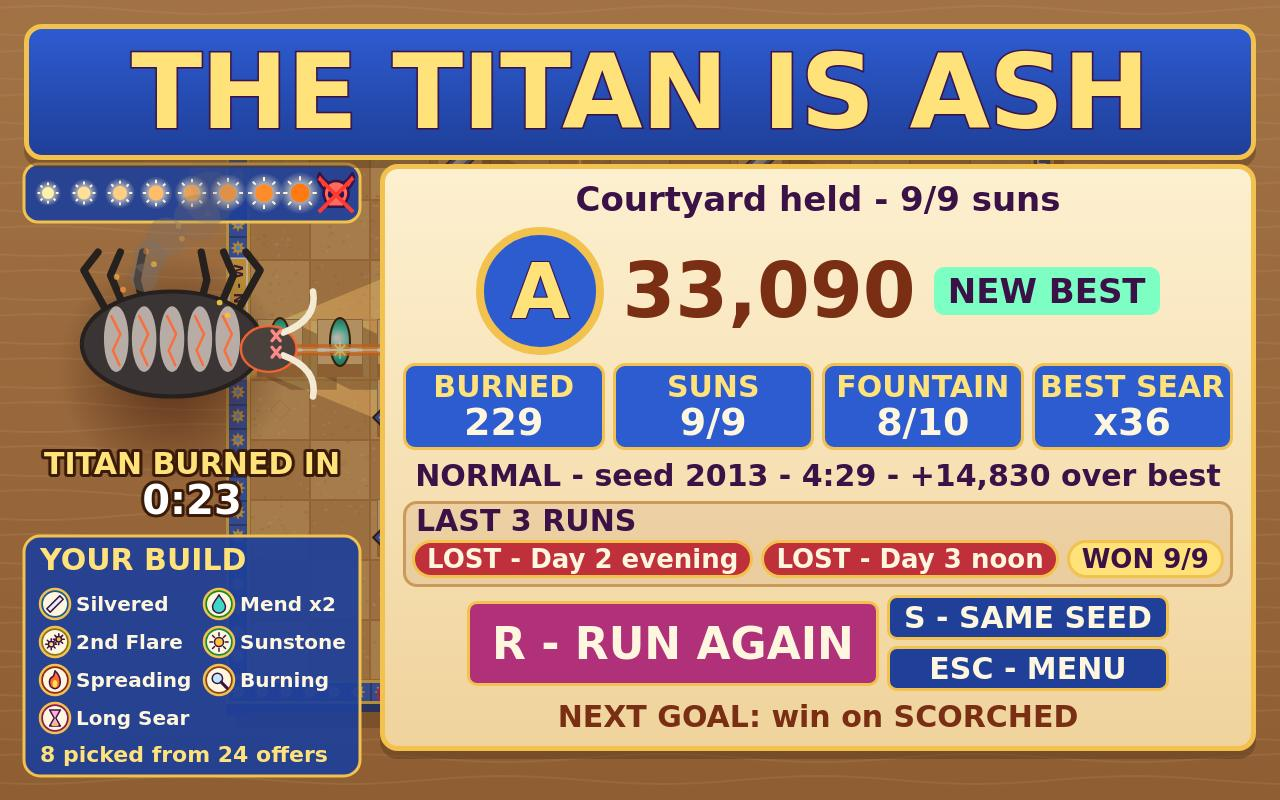
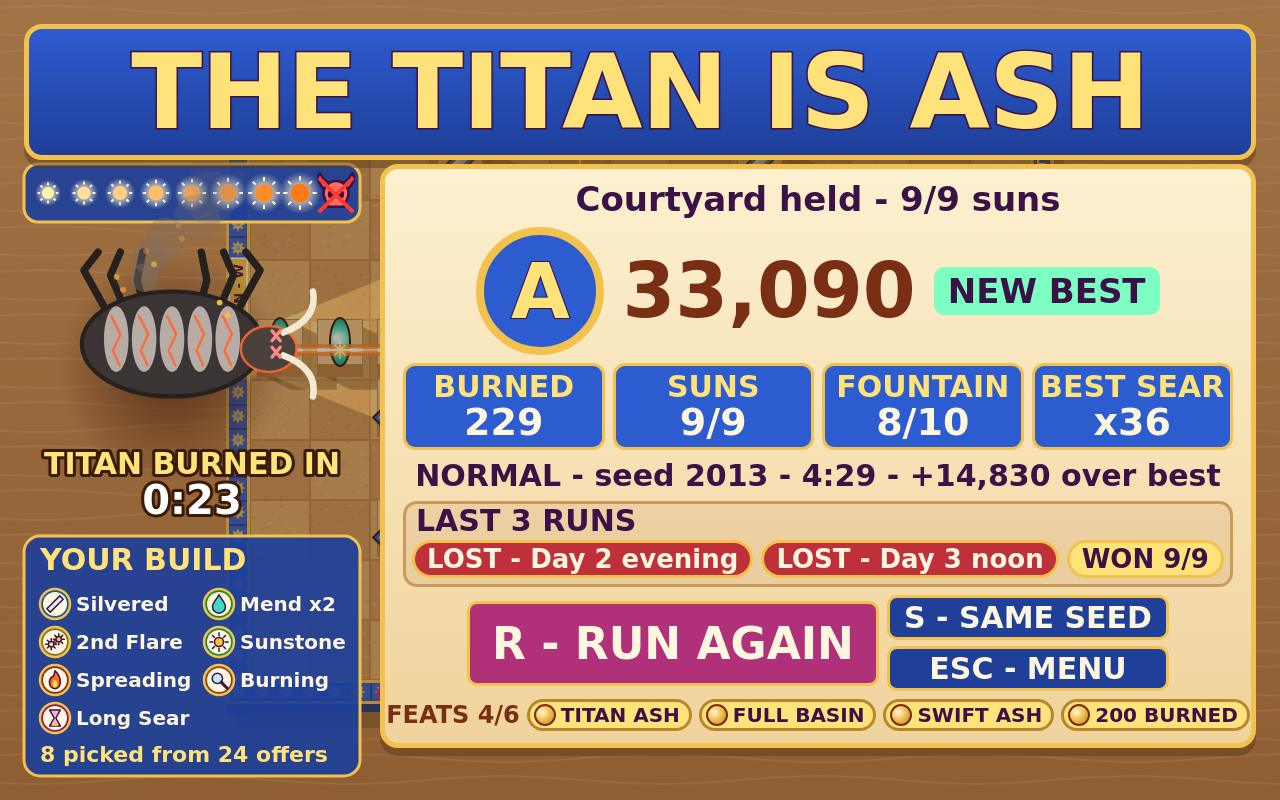
FEATS: 6 badges tested on the finished run and saved; results show the run's earned medals (4/6), the title counts every feat earned; truth-checked

Changed region(s): [[0.2812, 0.875, 1.0, 0.9688]]

diff --git a/game/src/ui/menus.js b/game/src/ui/menus.js
@@ -1,11 +1,13 @@
 // DOM overlays above the canvas: title (with difficulty picker and best scores), how to play,
 // pause, the draft's stained-glass roundels, and the results screen. Buttons only queue
 // { kind: 'ui', action, arg } intents; main.js decides what they do.
-import { DIFFICULTY_ORDER, DIFFICULTIES, ENEMIES, NAMES, PIECES, PIECE_ORDER, RESULT_LOSE_TITLE, RESULT_WIN_TITLE, SCOPE_LINE, SYNERGY, WAVE_COUNT } from '../config.js';
+import { DIFFICULTY_ORDER, DIFFICULTIES, ENEMIES, FEATS, NAMES, PIECES, PIECE_ORDER, RESULT_LOSE_TITLE, RESULT_WIN_TITLE, SCOPE_LINE, SYNERGY, WAVE_COUNT } from '../config.js';
 import { boonById, rerollCost } from '../draft.js';
 import { sunApertureFor } from '../sun.js';
 import { waveRoster } from '../waves.js';
 import { rankFor } from '../combat.js';
+import { runSummary } from '../sim.js';
+import { loadFeats } from '../save.js';
 import { draftContext, draftHeal, draftHint, historyChip, titleRules } from '../announce.js';
 import { drawCharmGlyph } from '../render/charms.js';
 import { drawHowtoPicture } from '../render/howto.js';
@@ -59,6 +61,7 @@ export function showTitle(menus, bestFor, selected) {
       <b>${DIFFICULTIES[id].name}</b><small>${best.played ? `best ${best.score.toLocaleString('en-US')}` : 'not played yet'}</small></button>`;
   }).join('');
   el('rule-scope').textContent = SCOPE_LINE;
+  el('feats-count').textContent = `FEATS ${loadFeats().length}/${FEATS.length}`;
   // The rules table: icon, gold tag, one line per rule (announce.titleRules, numbers from config).
   el('title-rules').innerHTML = titleRules()
     .map((r) => `<div class="rule rule-${r.icon}"><canvas width="36" height="36" data-icon="${r.icon}"></canvas><b>${escapeHtml(r.tag)}</b><span>${escapeHtml(r.line)}</span></div>`)
@@ -129,12 +132,6 @@ function fitHeading(node, maxPx, room) {
   node.style.setProperty('--fit', String(Math.min(1, Math.max(MIN_SQUEEZE, k))));
 }
 
-/** What to aim for next, from this run's outcome and difficulty. */
-function nextGoal(run) {
-  if (run.phase !== 'won') return `NEXT GOAL: hold ${run.stats.wavesCleared + 1} ${NAMES.suns.toLowerCase()}`;
-  const harder = DIFFICULTY_ORDER[DIFFICULTY_ORDER.indexOf(run.difficultyId) + 1];
-  return harder ? `NEXT GOAL: win on ${DIFFICULTIES[harder].name}` : `NEXT GOAL: beat ${run.score.toLocaleString('en-US')}`;
-}
 
 /**
  * Results: THE TITAN IS ASH (or THE SWARM BROKE THROUGH) across the top, then score with NEW BEST,
@@ -169,7 +166,9 @@ export function showResults(menus, run, record, history) {
     ? `<div class="strip-head"><b>LAST ${history.length} RUN${history.length > 1 ? 'S' : ''}</b></div>` +
       `<div class="chips">${history.map((h) => `<span class="chip ${h.outcome === 'won' ? 'won' : 'fell'}">${historyChip(h)}</span>`).join('')}</div>`
     : '';
-  el('results-next').textContent = nextGoal(run);
+  // FEATS this run earned, as gold medals (config FEATS, tested on the finished run).
+  const earned = runSummary(run).feats;
+  el('results-feats').innerHTML = `<b>FEATS ${earned.length}/${FEATS.length}</b>` + earned.map((id) => `<span class="feat"><i></i>${escapeHtml(FEATS.find((f) => f.id === id).name)}</span>`).join('');
 }
 
 /** R / S on the results screen (and the RUN AGAIN / SAME SEED buttons): queue a fresh run. */

diff --git a/game/style.css b/game/style.css
@@ -27,6 +27,8 @@ button.big:hover { background: #cf3f93; }
 .rule-lose span { color: #ffb0a8; }
 .title-card { position: absolute; left: 24px; top: 522px; bottom: 66px; width: 680px; box-sizing: border-box; display: flex; flex-direction: column; align-items: center; justify-content: space-between; padding: 8px 14px; background: rgba(31, 63, 153, 0.8); border: 4px solid #f2c14e; border-radius: 18px; }
 #play-button { font-size: 52px; padding: 0 80px; }
+.play-row { display: flex; align-items: center; gap: 18px; }
+.featcount { font: 900 26px system-ui, sans-serif; color: #3b1247; background: #ffe27a; border: 3px solid #b8862c; border-radius: 16px; padding: 4px 14px; white-space: nowrap; }
 .start-hint { margin: 0; font: 900 34px system-ui, sans-serif; color: #ffe27a; white-space: nowrap; letter-spacing: 0; }
 .picker { display: flex; gap: 8px; width: 100%; }
 .diff { flex: 1; display: flex; flex-direction: column; align-items: center; padding: 0 6px 2px; background: #2d5bd0; border-radius: 16px; letter-spacing: 0; }
@@ -99,8 +101,11 @@ kbd { display: inline-block; min-width: 30px; padding: 0 5px; font: 900 24px sys
 .stats div { flex: 1; min-width: 0; display: flex; flex-direction: column; align-items: center; justify-content: center; padding: 4px 6px; background: #2d5bd0; border: 3px solid #f2c14e; border-radius: 12px; overflow: hidden; }
 .stats small { display: inline-block; font-size: 30px; font-weight: 900; color: #ffe27a; line-height: 1.1; white-space: nowrap; transform: scaleX(var(--fit, 1)); }
 .stats b { font-size: 38px; font-weight: 900; color: #fff6df; line-height: 1.05; white-space: nowrap; }
-.meta, .next-goal { margin: 0; font: 900 30px system-ui, sans-serif; color: #3b1247; white-space: nowrap; }
-.next-goal { color: #7a2e14; }
+.meta { margin: 0; font: 900 30px system-ui, sans-serif; color: #3b1247; white-space: nowrap; }
+.feats { display: flex; align-items: center; justify-content: center; gap: 7px; }
+.feats b { font: 900 24px system-ui, sans-serif; color: #7a2e14; white-space: nowrap; }
+.feats .feat { display: flex; align-items: center; gap: 5px; padding: 1px 9px 1px 4px; font: 900 20px system-ui, sans-serif; color: #3b1247; background: #ffe27a; border: 3px solid #b8862c; border-radius: 16px; white-space: nowrap; }
+.feats .feat i { width: 18px; height: 18px; border-radius: 50%; background: radial-gradient(circle at 35% 35%, #fff6df, #f2c14e 45%, #b8862c); border: 2px solid #7a2e14; }
 .history { display: flex; flex-direction: column; gap: 2px; width: 100%; box-sizing: border-box; padding: 0 10px 6px; background: rgba(122, 46, 20, 0.08); border: 3px solid #c99a5b; border-radius: 14px; }
 .history:empty { display: none; }
 .history .strip-head { display: flex; justify-content: space-between; align-items: baseline; gap: 12px; }

diff --git a/game/src/sim.js b/game/src/sim.js
@@ -1,7 +1,7 @@
 // The run state and its fixed-step update. Input never touches this state directly: it queues
 // orders, and stepSim applies them at the start of the next 60 Hz tick, then advances the phase
 // machine build -> wave -> draft -> build ... -> won | lost.
-import { BEAM, CHARM_FX, DIFFICULTIES, DT, ECONOMY, FLARE_CHARGES, FOUNTAIN_MAX, PIECES, WAVE_COUNT } from './config.js';
+import { BEAM, CHARM_FX, DIFFICULTIES, FEATS, DT, ECONOMY, FLARE_CHARGES, FOUNTAIN_MAX, PIECES, WAVE_COUNT } from './config.js';
 import { beamModsFor, traceBeams } from './beams.js';
 import { sunApertureFor } from './sun.js';
 import { moveEnemies, shellBlockers, spawnEnemy } from './enemies.js';
@@ -225,7 +225,8 @@ export function stepSim(run, orders) {
 
 /** What the save keeps of a finished run (also shown in the results' RUN HISTORY). */
 export function runSummary(run) {
-  return { difficultyId: run.difficultyId, outcome: run.phase, score: run.score, suns: run.stats.wavesCleared, day: run.aperture.day, phase: run.aperture.phase.name };
+  const feats = FEATS.filter((f) => f.test(run)).map((f) => f.id);
+  return { difficultyId: run.difficultyId, outcome: run.phase, score: run.score, suns: run.stats.wavesCleared, day: run.aperture.day, phase: run.aperture.phase.name, feats };
 }
 
 /** Waves still to spawn plus beetles on the board, for the HUD's remaining bar. */

diff --git a/game/src/config.js b/game/src/config.js
@@ -196,5 +196,15 @@ export const SYNERGY = {
   mend: 'sunstone', longchain: 'spreading',
 };
 
+/** FEATS: badges a finished run earns (saved across runs; the title counts them). test(run) on the sim state. */
+export const FEATS = [
+  { id: 'titan', name: 'TITAN ASH', test: (run) => run.phase === 'won' },
+  { id: 'basin', name: 'FULL BASIN', test: (run) => run.phase === 'won' && run.shrineHp >= 8 },
+  { id: 'swift', name: 'SWIFT ASH', test: (run) => run.stats.titanSeconds !== undefined && run.stats.titanSeconds < 30 },
+  { id: 'burned', name: '200 BURNED', test: (run) => run.stats.kills >= 200 },
+  { id: 'sear', name: 'SEAR x40', test: (run) => run.chain.best >= 40 },
+  { id: 'scorched', name: 'SCORCHED WIN', test: (run) => run.phase === 'won' && run.difficultyId === 'scorched' },
+];
+
 /** The game's scope in one line, counted from the tables above (title screen and index.html note). */
 export const SCOPE_LINE = `${PIECE_ORDER.length} glass - ${ENEMY_ORDER.filter((t) => !ENEMIES[t].boss).length} beetles + the Titan - ${WAVE_COUNT} suns - ${BOONS.length} charms - ${DIFFICULTY_ORDER.length} difficulties`;

diff --git a/game/src/save.js b/game/src/save.js
@@ -1,5 +1,5 @@
 // Persistence in localStorage: best score and furthest sun per difficulty, the run history shown
-// on the results screen, and settings.
+// on the results screen, the FEATS earned, and settings.
 const KEY = 'sunwright.save.v1';
 
 function readSave() {
@@ -37,8 +37,14 @@ export function recordRun(summary) {
   const isBest = summary.score > old.score;
   data.best[summary.difficultyId] = { score: Math.max(old.score, summary.score), waves: Math.max(old.waves, summary.suns) };
   data.history = [...(data.history ?? []), summary].slice(-HISTORY_KEEP);
+  data.feats = [...new Set([...(data.feats ?? []), ...(summary.feats ?? [])])];
   writeSave(data);
   return { isBest, previousBest: old.score };
+}
+
+/** Every FEAT id any finished run has earned. */
+export function loadFeats() {
+  return readSave().feats ?? [];
 }
 
 /** Finished runs, oldest first. */

diff --git a/game/index.html b/game/index.html
@@ -27,7 +27,7 @@
     </div>
     <div id="title-rules" class="rules-table"></div>
     <div class="title-card">
-      <button id="play-button" class="big" data-action="play">PLAY</button>
+      <div class="play-row"><button id="play-button" class="big" data-action="play">PLAY</button><span id="feats-count" class="featcount"></span></div>
       <p id="start-hint" class="start-hint">CLICK PLAY OR PRESS ENTER</p>
       <div id="difficulty-picker" class="picker"></div>
     </div>
@@ -103,7 +103,7 @@
           <button data-action="menu">ESC - MENU</button>
         </div>
       </div>
-      <p id="results-next" class="next-goal"></p>
+      <div id="results-feats" class="feats"></div>
     </div>
   </section>
 </div>

diff --git a/game/src/testhook.js b/game/src/testhook.js
@@ -96,6 +96,8 @@ function resultsText() {
     capPx: px(cap),
     capElsewhere: elsewhere.length,
     chips: [...strip.querySelectorAll('.chip')].map((n) => ({ text: n.textContent.trim(), won: n.classList.contains('won') })),
+    featsLabel: document.querySelector('#results-feats b')?.textContent.trim() ?? '',
+    feats: [...document.querySelectorAll('#results-feats .feat')].map((n) => n.textContent.trim()),
   };
 }
 

diff --git a/NOTES.md b/NOTES.md
@@ -274,6 +274,12 @@
   line drops its third line (M sound on) and the right urn made room. Playtest clicks all three
   (speed on/off, mute saved on/off, pause then Esc). Cover text items 61 -> 60.
 
+- Benchmark 6 item 10: FEATS (config FEATS, tested on the finished run; runSummary lists them, the save
+  keeps their union): TITAN ASH, FULL BASIN (win at 8/10+), SWIFT ASH (Titan under 30 s), 200 BURNED,
+  SEAR x40, SCORCHED WIN. Results: a FEATS 4/6 row of gold medals replaces the NEXT GOAL line; title:
+  a FEATS n/6 chip beside PLAY. The title is now shot last (after the staged run is saved): FEATS 4/6,
+  NORMAL best 33,090. check-shot-truth replays both from the runs.
+
 ## Next
 - Field benchmark 5: items 1-11 all committed (21:45 UTC). Open from older sections: staging below,
   Bench3-3 solved plan (6 stray panes on the cover), Bench3-5 board >= 58%.
